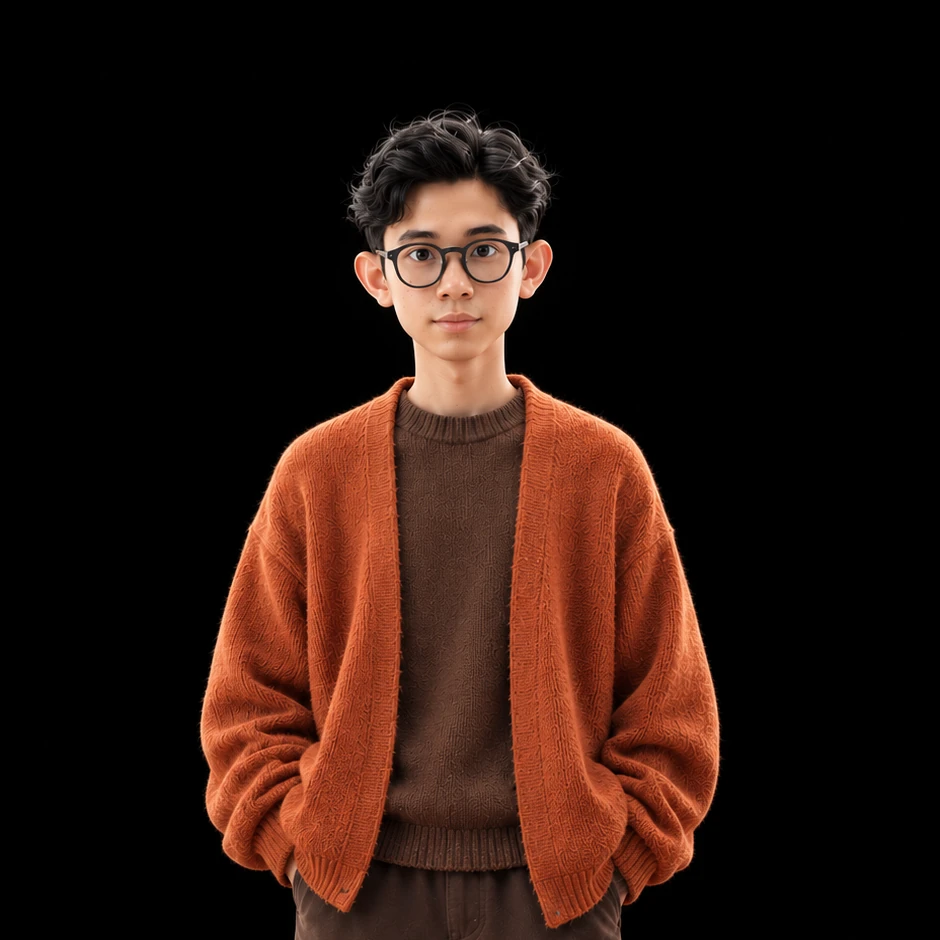
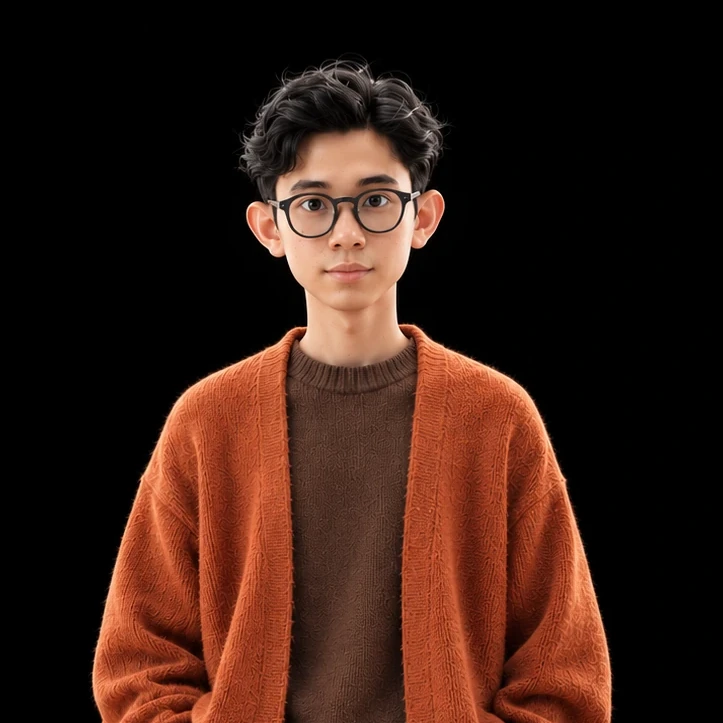
Update guide and zoom About portrait

Changed region(s): [[0.1217, 0.0609, 0.852, 1.0]]

diff --git a/PANDUAN.md b/PANDUAN.md
@@ -1,76 +1,245 @@
-# Panduan Menjalankan & Mempublikasikan Website
+# Panduan Mengedit & Menambah Isi Website
 
-Website ini dibuat dengan Astro. Hasil akhirnya adalah file statis, jadi tidak butuh server khusus.
+Website ini dibuat dengan **Astro** dan di-deploy otomatis oleh **Vercel** setiap kali branch `main` di GitHub berubah.
+Panduan ini menjelaskan file mana yang diedit untuk tiap jenis perubahan, dan langkah aman sampai perubahan tampil di **www.aprizal.me**.
 
-## 1. Persiapan (sekali saja)
+---
 
-1. Install **Node.js** versi 22 dari https://nodejs.org (pilih yang "LTS").
-2. Install **Git** dari https://git-scm.com (di Mac biasanya sudah ada).
-3. Buat akun gratis di https://github.com dan https://vercel.com (daftar Vercel pakai akun GitHub supaya langsung terhubung).
+## 0. Alur kerja singkat (selalu sama)
 
-## 2. Menjalankan di komputer sendiri
+1. **Jalankan website di komputer** → `npm run dev`, buka http://localhost:4321
+2. **Edit file** yang sesuai (lihat bagian 2–6).
+3. **Cek hasilnya** di browser. Cek juga tampilan HP (perkecil jendela browser).
+4. **Build** untuk memastikan tidak ada error → `npm run build` (harus diakhiri `Complete!`).
+5. **Commit & push** ke GitHub (bagian 8). Vercel otomatis meng-online-kan dalam 1–2 menit.
 
-Buka Terminal, masuk ke folder website, lalu jalankan:
+> Kalau build gagal, **jangan push**. Perbaiki dulu errornya (lihat bagian 9).
+
+---
+
+## 1. Menjalankan di komputer sendiri
+
+Pertama kali (atau setelah `package.json` berubah):
 
 ```bash
 npm install
+```
+
+Setiap kali mau bekerja:
+
+```bash
 npm run dev
 ```
 
-Buka http://localhost:4321 di browser. Tekan `Ctrl + C` di Terminal untuk berhenti.
+Buka http://localhost:4321. Tekan `Ctrl + C` di Terminal untuk berhenti.
 
-## 3. Upload ke GitHub
+Perubahan biasanya langsung terlihat. Jika tidak (terutama setelah mengubah file `.md` atau menambah gambar), hentikan dengan `Ctrl + C`, jalankan lagi `npm run dev`, lalu hard refresh browser (**Cmd + Shift + R**).
 
-Di Terminal, masih di folder website:
+---
 
-```bash
-git init
-git add .
-git commit -m "Website portfolio"
+## 2. Peta file: mau ubah apa, edit di mana
+
+| Yang ingin diubah | File |
+|---|---|
+| Nama, role, lokasi, email, link LinkedIn/Instagram | `src/data/site.ts` |
+| Resume (PDF) | ganti file `public/assets/resume.pdf` (nama tetap sama) |
+| Teks besar di Home ("Designing simple, intuitive…") | `src/pages/index.astro` |
+| Ajakan di bawah Home ("Let's build something meaningful together.") | `src/pages/index.astro` |
+| Teks About (statement, paragraf, skills, tools) | `src/data/about.ts` |
+| Foto About | ganti file `public/images/about/profile.webp` |
+| Isi case study (teks & gambar) | `src/content/case-studies/{nama}.md` |
+| Gambar case study | `public/images/{nama}/` |
+| Warna latar kartu project di Home/Work | `src/data/projectArt.ts` |
+| Item Playground | `src/content/playground/{nama}.md` + gambar di `public/images/playground/{nama}/` |
+| Menampilkan / menyembunyikan Playground | `features.playground` di `src/data/site.ts` |
+| Favicon & icon | `public/favicon.ico`, `favicon-32x32.png`, `apple-touch-icon.png`, `icon-192.png`, `icon-512.png` |
+| Gambar preview saat link dibagikan (WhatsApp, LinkedIn, dll.) | `public/og-home.jpg` (1200×630) |
+| Warna, jarak, ukuran font global | `src/styles/tokens.css` (hati-hati, berpengaruh ke seluruh website) |
+
+Aturan umum:
+- **Hanya ganti teks di antara tanda kutip** atau di antara tag HTML. Jangan hapus tanda kutip, koma, `<` `>`, atau `---`.
+- **Ganti gambar dengan nama file yang sama** jika tidak ingin menyentuh kode.
+
+---
+
+## 3. Mengubah teks umum
+
+### Email, sosial media, nama
+Buka `src/data/site.ts`. Contoh mengganti email:
+
+```ts
+email: 'aprizaltriansyah24@gmail.com',
 ```
 
-Lalu di GitHub:
+Email ini otomatis dipakai di Home, About, dan footer.
 
-1. Klik **New repository**, beri nama misalnya `aprizal-portfolio`, biarkan kosong (jangan centang README), klik **Create**.
-2. GitHub akan menampilkan perintah. Jalankan dua baris ini di Terminal (ganti `USERNAME` dengan username GitHub Anda):
+### Halaman About
+Buka `src/data/about.ts`:
+- `statement` → kalimat besar di atas.
+- `paragraphs` → paragraf; tiap paragraf di dalam tanda kutip, dipisah koma.
+- `designSkills`, `tools` → daftar; tambah item baru dengan format `'Nama Skill',`.
+
+### Teks Home
+Buka `src/pages/index.astro`. Kalimat hero ada di baris dengan class `home-hero__statement`. Kalimat itu dipecah ke beberapa `<span>` untuk desain dua warna, jadi ubah **hanya teks di dalam `<span>`**.
+Ada juga `description="…"` di bagian atas file. Itu teks untuk Google & preview link; samakan jika kalimat hero berubah.
+
+---
+
+## 4. Gambar: aturan yang perlu diingat
+
+- **Format:** pakai **WebP** (`.webp`). Konversi PNG/JPG ke WebP bisa lewat https://squoosh.app (quality 85–90).
+- **Ukuran:** lebar 1600–2400 px sudah cukup tajam untuk layar retina. Hindari file di atas ~500 KB.
+- **Nama file:** huruf kecil, tanpa spasi, pakai tanda hubung. Contoh: `ui-dashboard.webp`.
+- **Lokasi:** `public/images/{nama-project}/`. Di kode ditulis **tanpa** `public`, contoh: `/images/klyra/ui-dashboard.webp`.
+- **Versi kecil (opsional):** website otomatis memakai file versi kecil jika ada di sebelahnya dengan akhiran lebar, misalnya `cover-800w.webp`, `cover-1200w.webp` (lebar yang dikenali: 640, 800, 1024, 1200, 1600). Ini membuat website lebih cepat di HP, tapi tidak wajib.
+- **Teks alt:** setiap gambar punya `alt`, yaitu deskripsi singkat isi gambar (untuk pembaca layar & Google). Isi dengan jujur dan spesifik.
+- **Jangan simpan file mentah** (PNG besar, PSD, Figma export yang tidak dipakai) di folder `public/`. Semua isi `public/` ikut ter-upload ke website.
+
+**Mengganti foto About:** siapkan foto persegi (1:1), kepala tidak terlalu dekat ke tepi atas (foto ditampilkan dalam lingkaran), simpan sebagai `public/images/about/profile.webp`.
+
+---
+
+## 5. Case study
+
+Setiap case study = **satu file** di `src/content/case-studies/`. Nama file menjadi alamat halaman:
+`klyra.md` → `www.aprizal.me/work/klyra/`
+
+File terdiri dari dua bagian:
+1. **Frontmatter**: data di antara dua garis `---` di bagian paling atas.
+2. **Isi halaman**: HTML dengan class `cs-…` di bawahnya.
+
+### 5a. Mengedit case study yang ada
+- **Teks**: ubah teks di antara tag, misalnya isi `<h2 class="cs-title">…</h2>` atau `<p class="cs-text">…</p>`.
+- **Gambar**: ganti file di `public/images/{nama}/` dengan nama yang sama, atau ubah `src="…"` dan `alt="…"` di tag `<img>`.
+- **Jangan mengubah nama class** (`cs-section`, `cs-head`, dst.). Class itulah yang mengatur tampilan & jarak.
+- Pastikan setiap tag yang dibuka juga ditutup (`<section>` … `</section>`).
+
+### 5b. Isi frontmatter (wajib semua kecuali yang ditandai opsional)
+
+| Field | Fungsi |
+|---|---|
+| `title` | Nama project |
+| `description` | Deskripsi untuk Google & preview link |
+| `summary` | Paragraf singkat di kartu halaman Work dan kartu "Next case study" |
+| `tagline` | Label pendek yang muncul saat kartu di Home di-hover, misalnya `"Personal finance app"` |
+| `type` | Label jenis, misalnya `"Mobile app"` / `"Web app"` |
+| `cover`, `coverAlt` | Gambar kartu di Home/Work + deskripsinya |
+| `heroImage`, `heroAlt` | Gambar besar di atas halaman case study |
+| `heroLayout` | `"stacked"` (gambar lebar, cocok untuk web) atau `"split"` (cocok untuk mockup HP) |
+| `heroFill` *(opsional)* | `true` = gambar hero memenuhi kotak tanpa padding |
+| `heroDevice` *(opsional)* | `true` = mockup HP kecil di tengah (tidak diperbesar) |
+| `template` | Selalu `"editorial"` |
+| `role`, `year`, `tags` | Info project; `tags` berupa daftar `["…", "…"]` |
+| `meta` | Baris info di bawah judul (Category, Role, Year, …) |
+| `order` | Urutan di Home & Work (1 = paling atas). "Next case study" mengikuti urutan ini |
+| `outroTitle` | Judul penutup, misalnya `"Thanks for reading."` |
+| `outroText` *(opsional)* | Kalimat penutup di bawahnya |
+
+### 5c. Menambah case study baru
+1. Buat folder gambar `public/images/{nama-baru}/` dan masukkan gambar WebP (minimal `cover.webp` dan `hero.webp`).
+2. **Salin** case study yang paling mirip (web → `flowforge.md` / `evora.md`, mobile → `klyra.md` / `snaphire.md`), lalu ubah nama filenya, misalnya `src/content/case-studies/nama-baru.md`.
+3. Ubah semua isi frontmatter: judul, teks, path gambar (`/images/nama-baru/...`), `order`.
+4. Ubah isi halaman: ganti teks & gambar per section. Hapus section yang tidak dibutuhkan (hapus **satu blok utuh** dari `<section …>` sampai `</section>`).
+5. (Opsional) Tambahkan warna latar kartu di `src/data/projectArt.ts`:
+
+   ```ts
+   'nama-baru': { tint: '#e8eef7', fit: 'contain', position: '50% 50%' },
+   ```
+
+   Jika tidak ditambahkan, kartu memakai warna abu-abu netral.
+6. **Restart** `npm run dev`, cek halaman `/work/nama-baru/`, Home, dan Work.
+
+Menghapus case study: hapus file `.md`-nya dan folder gambarnya. Sesuaikan `order` case study lain jika perlu.
+
+---
+
+## 6. Playground
+
+Setiap item Playground = satu file `.md` di `src/content/playground/` dan satu folder gambar.
+Item tampil di halaman `/playground/` dan di section Playground pada Home. Saat diklik, terbuka popup berisi gambar-gambarnya.
+
+1. Simpan gambar di `public/images/playground/{nama}/`, misalnya `01-cover.webp`, `02-detail.webp`. Usahakan **lebar semua gambar sama** supaya menyambung rapi di popup.
+2. Buat `src/content/playground/{nama}.md`:
+
+   ```md
+   ---
+   title: "Judul Item"
+   category: "UI/UX Design"
+   year: 2026
+   thumbnail:
+     src: "/images/playground/{nama}/01-cover.webp"
+     alt: "Deskripsi gambar thumbnail"
+   images:
+     - src: "/images/playground/{nama}/01-cover.webp"
+       alt: "Deskripsi gambar 1"
+     - src: "/images/playground/{nama}/02-detail.webp"
+       alt: "Deskripsi gambar 2"
+   order: 2
+   ---
+   ```
+
+   - `thumbnail` = gambar di kartu (boleh berbeda dari gambar pertama di popup).
+   - `images` = urutan gambar di popup, dari atas ke bawah.
+   - `order` = posisi di galeri (1 = paling depan).
+   - Tambahkan `draft: true` untuk menyembunyikan sementara tanpa menghapus.
+3. Restart `npm run dev` dan cek `/playground/`.
+
+File yang namanya diawali `_` (seperti `_README.md`) tidak ditampilkan.
+
+---
+
+## 7. Icon, favicon & gambar preview link
+
+- **Favicon/icon**: semua dibuat dari satu foto persegi. Jika ingin mengganti, siapkan gambar persegi lalu ekspor ke ukuran berikut dengan nama file yang sama:
+  `favicon.ico` (16/32/48), `favicon-32x32.png` (32), `apple-touch-icon.png` (180), `icon-192.png` (192), `icon-512.png` (512). Situs seperti https://realfavicongenerator.net bisa membantu.
+- **Preview link (OG image)**: `public/og-home.jpg`, ukuran **1200×630**. Jika diganti, perbarui juga teks `alt` di `ogImage` pada `src/data/site.ts`.
+- Browser & media sosial menyimpan cache gambar ini cukup lama, jadi perubahan bisa butuh waktu untuk terlihat.
+
+---
+
+## 8. Menyimpan ke GitHub & meng-online-kan
+
+Jalankan di Terminal, di folder project:
 
 ```bash
-git remote add origin https://github.com/USERNAME/aprizal-portfolio.git
-git push -u origin main
+npm run build          # wajib berhasil (Complete!)
+git status             # lihat file apa saja yang berubah
 ```
 
-## 4. Publikasikan di Vercel
-
-1. Masuk ke https://vercel.com, klik **Add New → Project**.
-2. Pilih repository `aprizal-portfolio` lalu klik **Import**.
-3. Vercel otomatis mendeteksi **Astro**. Tidak perlu mengubah apa pun. Klik **Deploy**.
-4. Tunggu 1–2 menit. Website langsung online di alamat sementara seperti `aprizal-portfolio.vercel.app`.
-
-## 5. Pasang domain aprizal.me
-
-1. Di Vercel, buka project → **Settings → Domains**.
-2. Tambahkan `www.aprizal.me`, lalu tambahkan juga `aprizal.me`.
-3. Jadikan `www.aprizal.me` sebagai **Primary**. Vercel otomatis mengarahkan `aprizal.me` ke `www`.
-4. Vercel akan menampilkan DNS record yang harus dipasang. Buka tempat domain dibeli (registrar), lalu buat record berikut:
-   - Tipe **A**, nama `@` (atau `aprizal.me`), nilai `76.76.21.21`
-   - Tipe **CNAME**, nama `www`, nilai `cname.vercel-dns.com`
-5. Tunggu sampai di halaman Domains Vercel statusnya berubah jadi **Valid** (biasanya beberapa menit, paling lama 1 hari). HTTPS otomatis aktif.
-
-Catatan: jika domain ini masih terpasang di project Vercel yang lama, lepas dulu dari project lama (Settings → Domains → Remove) atau pindahkan ke project baru.
-
-## 6. Mengubah isi website di kemudian hari
-
-- **Teks case study**: edit file di `src/content/case-studies/` (`snaphire.md`, `klyra.md`, `flowforge.md`).
-- **Gambar**: ganti file di `public/images/` dengan nama yang sama (format `.webp`).
-- **Resume**: ganti file `public/assets/resume.pdf`.
-- **Teks halaman depan**: edit `src/pages/index.astro`.
-
-Setiap kali ada perubahan, jalankan:
+Periksa daftar dari `git status`. Pastikan tidak ada file yang tidak seharusnya ikut: `.env`, password/token, file mentah besar, atau folder backup. Lalu:
 
 ```bash
-git add .
-git commit -m "Update website"
-git push
+git add .              # atau sebutkan file satu per satu: git add src/data/about.ts
+git commit -m "Jelaskan singkat perubahannya"
+git fetch origin
+git status             # harus "ahead of 'origin/main'", BUKAN "behind"/"diverged"
+git push origin main
 ```
 
-Vercel otomatis membangun ulang dan website terbaru online dalam 1–2 menit.
+Contoh pesan commit yang jelas: `"Add Playground item: Banking App"`, `"Update About text"`, `"Replace Klyra cover image"`.
+
+Setelah push, cek progres deploy di dashboard Vercel, lalu buka www.aprizal.me (hard refresh: **Cmd + Shift + R**).
+
+Jangan pernah memakai `git push --force`.
+
+---
+
+## 9. Kalau ada masalah
+
+| Masalah | Solusi |
+|---|---|
+| `npm run build` error | Baca pesan error, biasanya menyebut nama file & baris. Penyebab tersering: tanda kutip/koma hilang di frontmatter, field wajib belum diisi, atau path gambar salah. |
+| Perubahan tidak muncul di `npm run dev` | Hentikan (`Ctrl + C`), jalankan lagi `npm run dev`, hard refresh browser. |
+| Gambar tidak muncul | Cek path: diawali `/images/…` (tanpa `public`), nama file & huruf besar/kecil persis sama. |
+| Ingin membatalkan perubahan sebuah file (belum di-commit) | `git checkout -- path/ke/file` |
+| Sudah di-push tapi ingin membatalkan commit terakhir | `git revert HEAD` lalu `git push origin main` (aman, tidak menghapus riwayat). |
+| `git status` menunjukkan "behind" / "diverged" | Jangan push dulu. Jalankan `git pull origin main`, cek ulang website, lalu push. |
+
+---
+
+## Lampiran: setup yang sudah dilakukan (tidak perlu diulang)
+
+- Repository: `https://github.com/aprizal24/aprizal-personal-portofolio` (branch `main`).
+- Vercel sudah terhubung ke repository ini; setiap push ke `main` otomatis deploy ke production.
+- Domain: `www.aprizal.me` (utama). `aprizal.me` diarahkan ke `www`. Pengaturan ada di Vercel → Settings → Domains.
+- Alamat lama `/contact/` dan `/experiments/` otomatis diarahkan ke Home dan `/playground/` (diatur di `vercel.json` dan `astro.config.mjs`).
